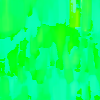
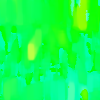
More fixes for normalising

diff --git a/speedchallenge.py b/speedchallenge.py
@@ -188,7 +188,7 @@ class SpeedNet:
                 print(np.amax(processed_video_opflow[i]))
                 print("end flow")
                 """
-                cv2.imwrite(self.optflow_dir[0] + '/' + str(i) + ".png", processed_video_opflow[i])
+                cv2.imwrite(self.optflow_dir[0] + '/' + str(i) + ".png", flow)
                 #__________________
 
                 #__________________

diff --git a/Readme.md b/Readme.md
@@ -127,14 +127,13 @@ These provide a way to deal with sudden changes in brightness. However the perfo
            return [[frame,op_flow],speeds]
    ```
    
-
-   <img src=".\pics\optflow.png" alt="optflow" style="zoom:250%;" />*OPTFLOW IMAGE*
-
+<img src=".\pics\optflow.png" alt="optflow" style="zoom:500%;" />*OPTFLOW IMAGE*
    
 
-   <img src=".\pics\flow.png" alt="flow" style="zoom:250%;" />*FLOW IMAGE*
-
-   														
+   
+<img src=".\pics\flow.png" alt="flow" style="zoom:500%;" />*FLOW IMAGE*
+   
+														
 
 ## Final Model Architecture:
 
